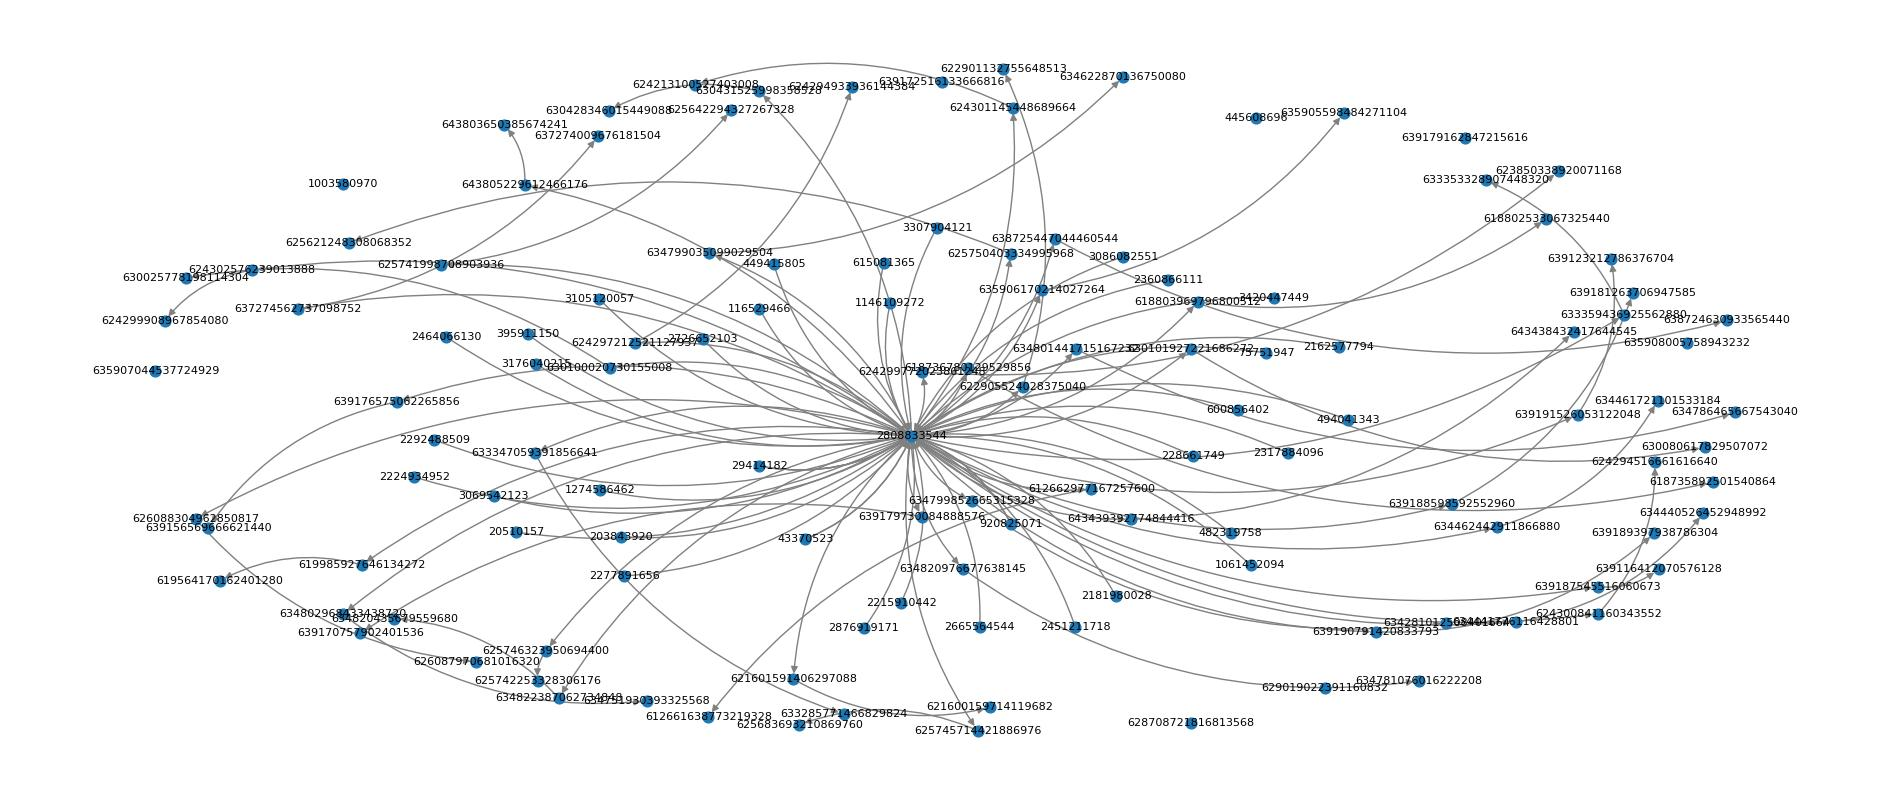
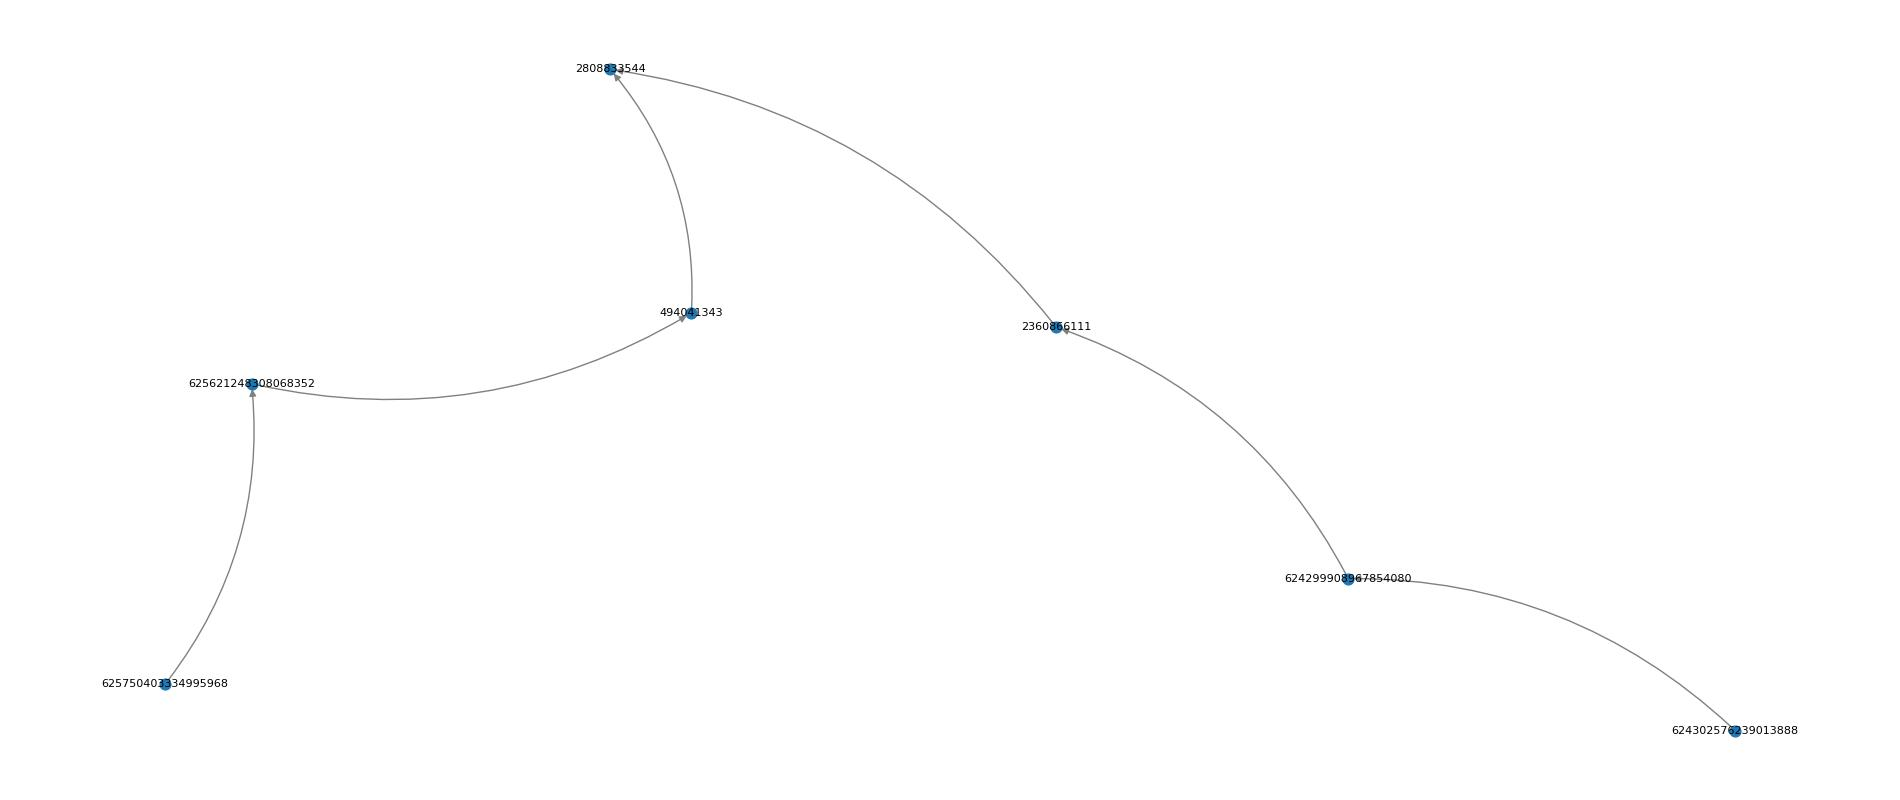
pr5.1 pr5.2 coursework graphframes dev

diff --git a/big_data/src/pr5_tweets/graphframes/nth_user_msg_chain/q4.py b/big_data/src/pr5_tweets/graphframes/nth_user_msg_chain/q4.py
@@ -61,9 +61,21 @@ user_started_chain.show()
 user_started_chain_user_id = user_started_chain.take(1)[0]["userid"]
 logger.info(f"user_started_chain_user_id: {user_started_chain_user_id}")
 
+nth_chain = 1
 filtered_user_started_chain = user_started_chain.filter(
     F.col("userid") == user_started_chain_user_id
-).limit(40)
+)
+filtered_user_started_chain_max = (
+    filtered_user_started_chain.groupBy("inDegree", "userid")
+    .agg({"inDegree": "max"})
+    .orderBy(F.desc("max(inDegree)"))
+)
+logger.info("filtered_user_started_chain_max")
+filtered_user_started_chain_max.show()
+
+filtered_user_started_chain = filtered_user_started_chain.filter(
+    F.col("inDegree") == filtered_user_started_chain_max.take(1)[0]["max(inDegree)"]
+)
 logger.info(
     f"filtered_user_started_chain - count: {filtered_user_started_chain.count()}"
 )
@@ -82,9 +94,14 @@ for row in filtered_user_started_chain.collect():
 for row in filtered_user_started_chain.collect():
     # dst - in_reply_to_tweet_id src - tweetid
     # in_reply_to_userid -> userid -> tweet_id (src) -> in_reply_to_tweet_id (dst)
-    nx_graph.add_edge(row["in_reply_to_userid"], row["userid"])
-    nx_graph.add_edge(row["userid"], row["src"])
+    # nx_graph.add_edge(row["in_reply_to_userid"], row["userid"])
+    # nx_graph.add_edge(row["userid"], row["src"])
+    # nx_graph.add_edge(row["src"], row["dst"])
+
+    # tweet_id (src) -> in_reply_to_tweet_id -> (dst) in_reply_to_userid -> userid
     nx_graph.add_edge(row["src"], row["dst"])
+    nx_graph.add_edge(row["dst"], row["in_reply_to_userid"])
+    nx_graph.add_edge(row["in_reply_to_userid"], row["userid"])
 pos = nx.spring_layout(nx_graph, k=0.5)
 nx.draw(
     nx_graph,
